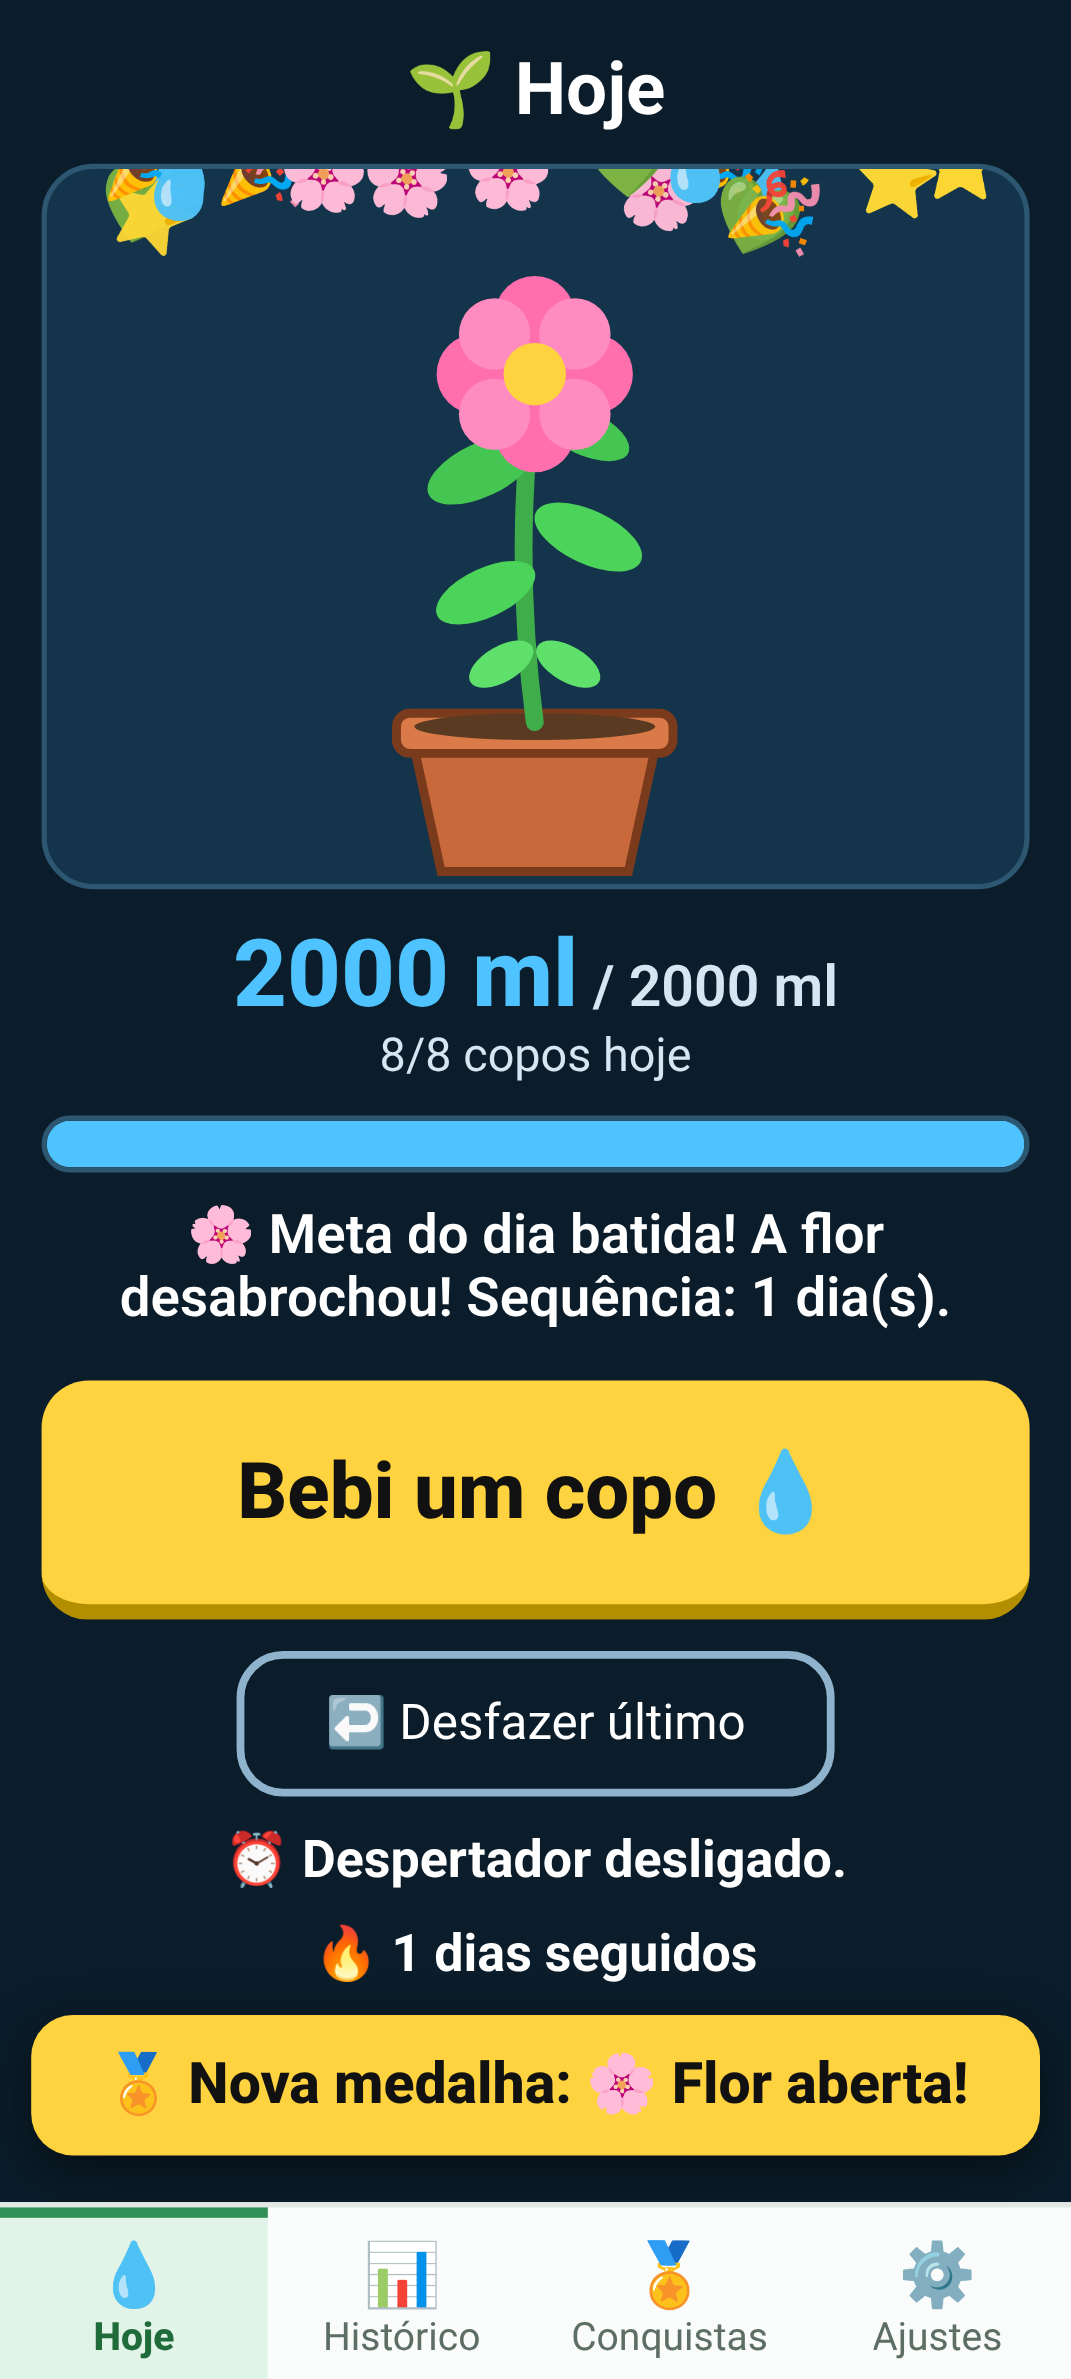
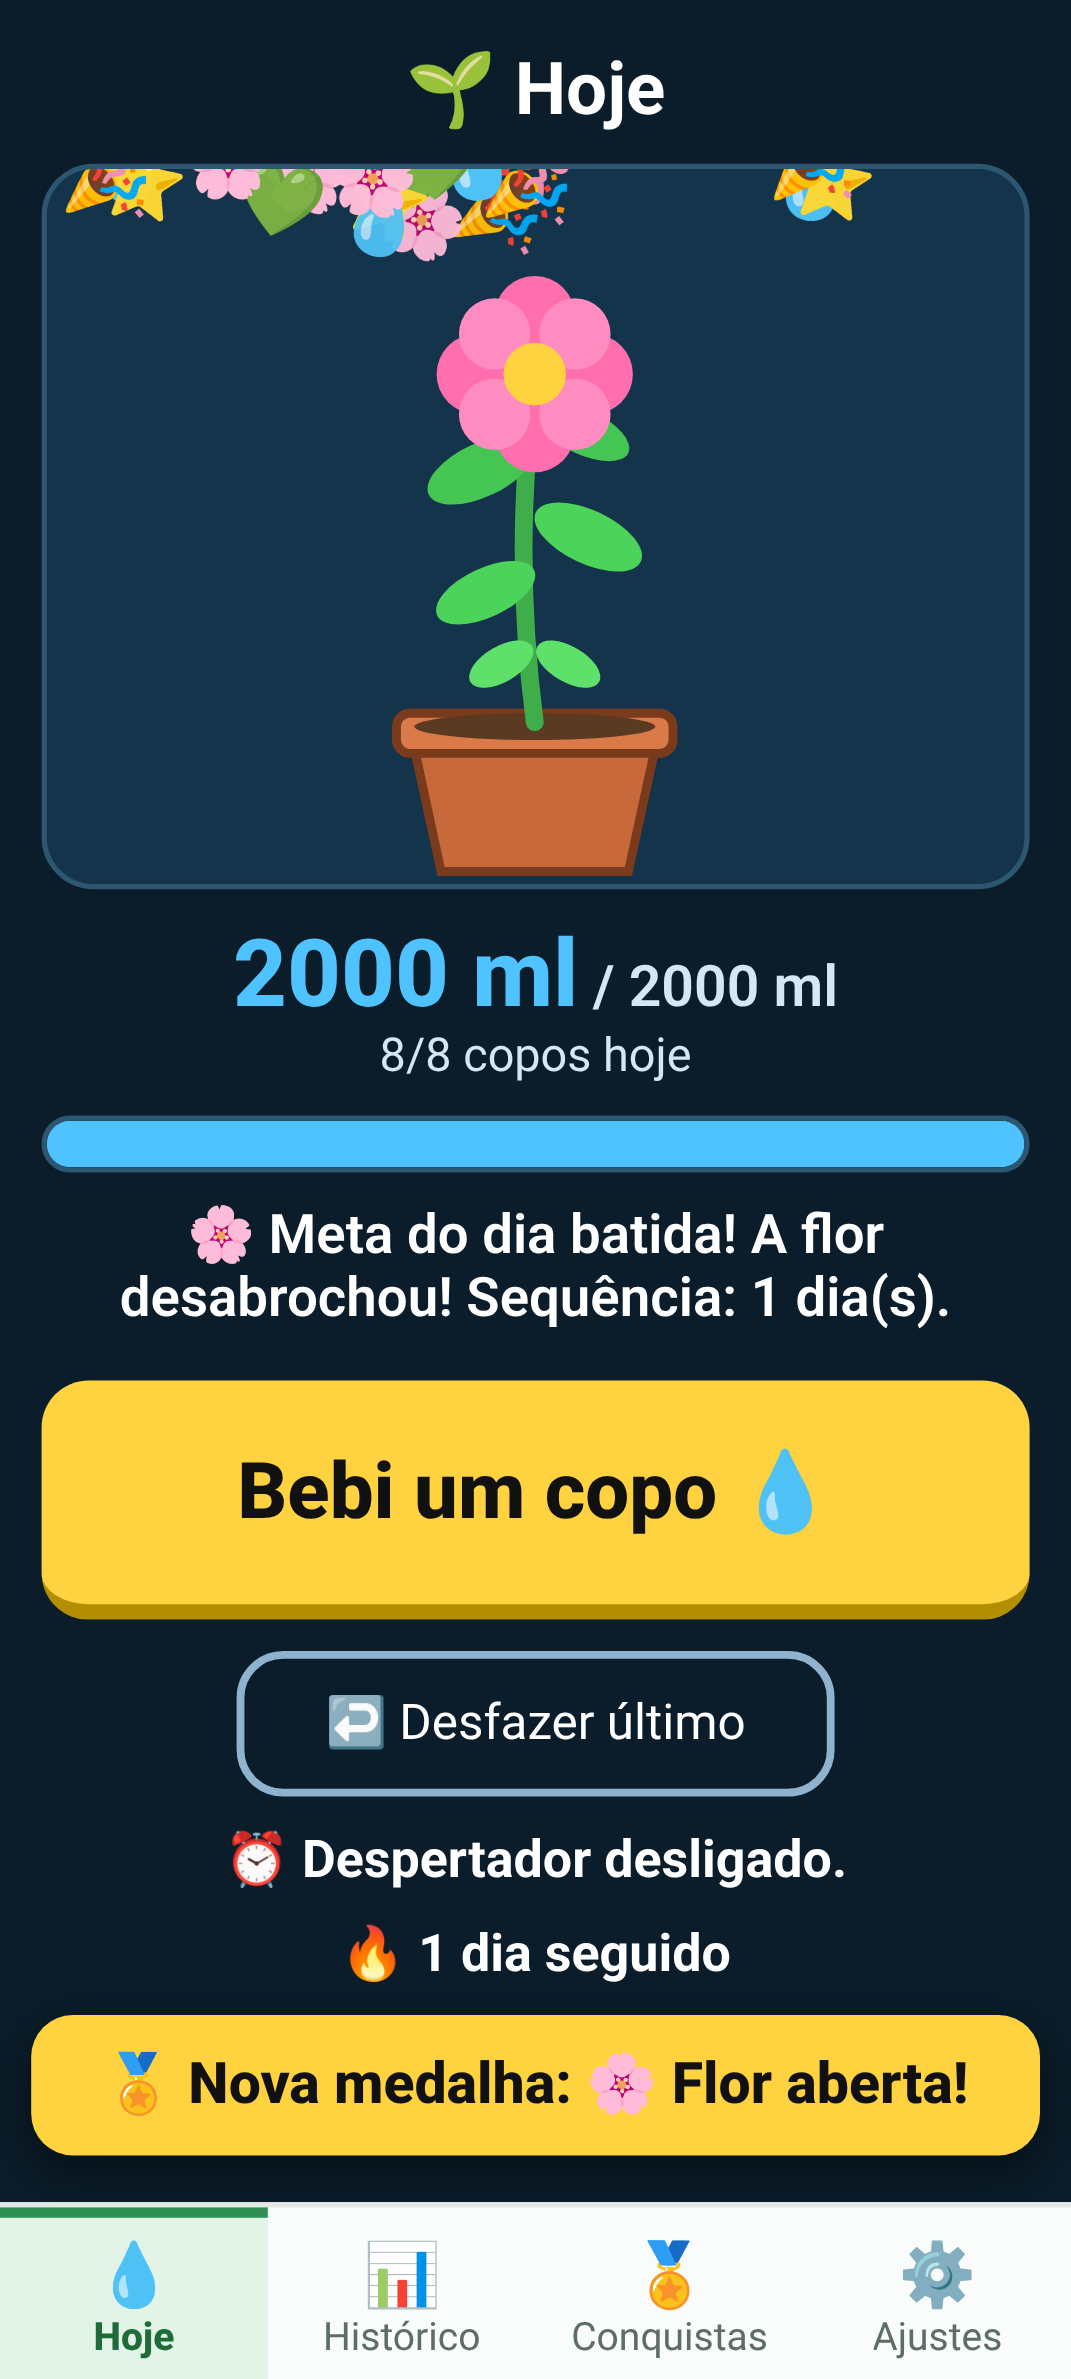
REGISTRO da navegação por abas (escolha, testes, APK) e checklist do A23 no README; print do teste web atualizado

diff --git a/REGISTRO.md b/REGISTRO.md
@@ -124,3 +124,27 @@ Pedido: Paulo (via Coordenador de Apps): (A) código mais organizado e (D) arqui
[1 lines of base64/hex data omitted]
 - O APK anterior `plantinha-sedenta-alarme.apk` continua lá, intacto (sha256 `87b9f315…56d2`).
 - **Não testado em aparelho** (o emulador da box não ligou nas 2 tentativas anteriores; não tentei de novo). Checklist do A23 no README.
+
+## 27/10/2026 — Navegação por 4 abas (proposta B aprovada pelo Paulo) — branch `feature/navegacao-abas`, v1.2.0 / versionCode 3
+Pedido: Paulo (via Coordenador de Apps) aprovou a proposta B: 4 abas fixas embaixo (💧 Hoje, 📊 Histórico, 🏅 Conquistas, ⚙ Ajustes), dividindo `src/telas/Jogo.tsx`. **Sem mudar** comportamento, lógica, dados, alarme nativo, permissões ou `eas.json`. Nada publicado, sem deploy na Vercel.
+- Base: `7499f28` (main do GitHub, já com o PR 4). Trabalho local na box (JDK/SDK + chave de debug da box para o APK); entrega por bundle + patches, sem push.
+- **Escolha da navegação: barra de abas própria** (`src/navegacao/BarraAbas.tsx`, estado `useState` em `Navegacao.tsx`), sem React Navigation/Expo Router.
+  Motivo: 4 abas fixas sem histórico/links não precisam de biblioteca; zero dependência nova = nada muda no `package.json`, no prebuild, no APK e no export web (manifesto igual, expo-doctor igual).
+- Estado ÚNICO em `src/estado/usePlantinha.ts` (1 hook chamado só em `Navegacao.tsx`; as telas recebem `p` por prop). O código veio de `Jogo.tsx`: conferido por script que todas as linhas de estado/efeitos/ações (linhas 18–226) estão idênticas no código novo; as 7 que mudaram são só de tela (tamanho da planta/placar, nome do componente, `semana`/`nGanhas` movidos para as abas).
+- Janelas (meta, tela do alarme, aviso de medalha) ficam na raiz: aparecem em qualquer aba. A frase do momento aparece em Hoje e em Ajustes. Os botões ⚠ de permissão ficam em Ajustes > Despertador (como antes) e, se faltar permissão, Hoje mostra um ⚠ que leva a Ajustes.
+- Safe area: `SafeAreaView` só em cima/lados; a barra de abas soma o `inset` de baixo (fica acima da barra de navegação do Android). Botões das abas com 66 px de altura.
+- Cores: telas no tema escuro de sempre; barra de abas nas cores da proposta B (fundo claro, aba ativa verde com borda verde em cima). Nomes e emoji das abas iguais à proposta. O app sempre abre em Hoje.
+- Hoje: planta um pouco menor (30% da altura em vez de 42%) para a aba caber sem rolar em 390×844; progresso "1250 ml / 2000 ml" + "5/8 copos hoje" no lugar das 3 caixinhas.
+- **Não mexido** (conferido com `git diff 7499f28 --stat -- src/logica src/dados src/lembretes modules plugins eas.json package.json package-lock.json`: vazio; não existe pasta `plugins/`). `app.json`: só `version` 1.2.0 e `versionCode` 3.
+
+### Testes (rodados de verdade, na árvore final)
+- `tsc --noEmit --noUnusedLocals`: OK
+- Jest: **115/115** (111 de antes + 4 novos de `src/navegacao/abas.ts`). Sem infraestrutura de teste de renderização no projeto; não adicionei.
+- expo-doctor: 17/18 (só o aviso conhecido expo 58.0.19 × 58.0.20; não atualizei).
+- `expo export -p web`: OK. Teste web headless (412 px): **42/42** = os 35 de antes + 7 novos das abas. Adaptação: cada verificação antiga é a mesma, só troca de aba antes de ler o texto (`hResumo` no Histórico, `mResumo` em Conquistas, `config`/`dLiga`/`dProx`/`msg` dos ajustes em Ajustes, `copos`/`ml`/`seq` em Hoje), porque só a aba aberta fica na tela. Novos: 4 abas aparecem; barra fixa embaixo com botões ≥ 56 px e abre em Hoje; "Bebi um copo" visível sem rolar; trocar de aba mantém o estado; Ajustes mostra a meta salva; Hoje mostra o próximo lembrete; recarregar mantém o histórico.
+- Prebuild: `AndroidManifest.xml` gerado **idêntico** ao da main; `build.gradle` muda só `versionCode 3` / `versionName "1.2.0"`. Manifesto final do APK (aapt2) × `plantinha-sedenta-organizado.apk`: só `versionCode`/`versionName` mudam.
+
+### APK
[1 lines of base64/hex data omitted]
+- **Não testado em aparelho** (o emulador da box travou nas 2 vezes anteriores; não tentei de novo). Checklist do A23 no README ("Teste das abas no A23").
+- Prints da web a 390×844 com **dados simulados**: `/workspace/jogos/agua-expo-entrega/prints-abas/` (gerados por `testes-web/prints-abas.cjs`).

diff --git a/README.md b/README.md
@@ -102,5 +102,16 @@ Como funciona (módulo nativo local `modules/plantinha-alarme`, entra no APK pel
 5. **Reinicie** o celular, não abra o app, e espere o próximo lembrete: deve tocar.
 6. Desligue o despertador e espere o horário: **não** deve tocar.
 
+### Teste das abas no A23 (v1.2.0)
+1. Baixe `plantinha-sedenta-abas.apk` e toque em **Atualizar** (instala por cima; **não** desinstale).
+2. Abra: em **💧 Hoje**, os copos de hoje e a sequência são os de antes. Em **📊 Histórico**, os dias anteriores estão lá. Em **🏅 Conquistas**, as medalhas ganhas continuam.
+3. Toque nas 4 abas embaixo: cada uma abre e a barra não fica escondida atrás dos botões do Android.
+4. Em **Hoje**, toque em **Bebi um copo**: o número sobe. Veja que o **Histórico** (barra de hoje) e as **Conquistas** mudaram junto. Toque em **Desfazer** para voltar.
+5. Em **⚙ Ajustes**, mude a meta (✏ Mudar copo e meta > Salvar) e o despertador (intervalo, Das/Até). Volte para **Hoje**: a meta e o "Próximo lembrete" mudaram.
+6. Em **Ajustes**, toque em **⏱ Testar lembrete em 1 min**, saia do app e **apague a tela**: em 1 min ela acende e toca sem parar.
+7. Toque em **Já bebi 💧** na tela do alarme: o som para.
+8. Abra o app de novo: em **Hoje** tem 1 copo a mais (o do teste; dá para desfazer).
+9. Se aparecer um botão **⚠** (em Hoje ou em Ajustes), toque nele e permita o que o celular pedir.
+
 ## Limite (web)
 **Sem push.** Na web o despertador só funciona com a aba aberta (ou fechada há pouco).
